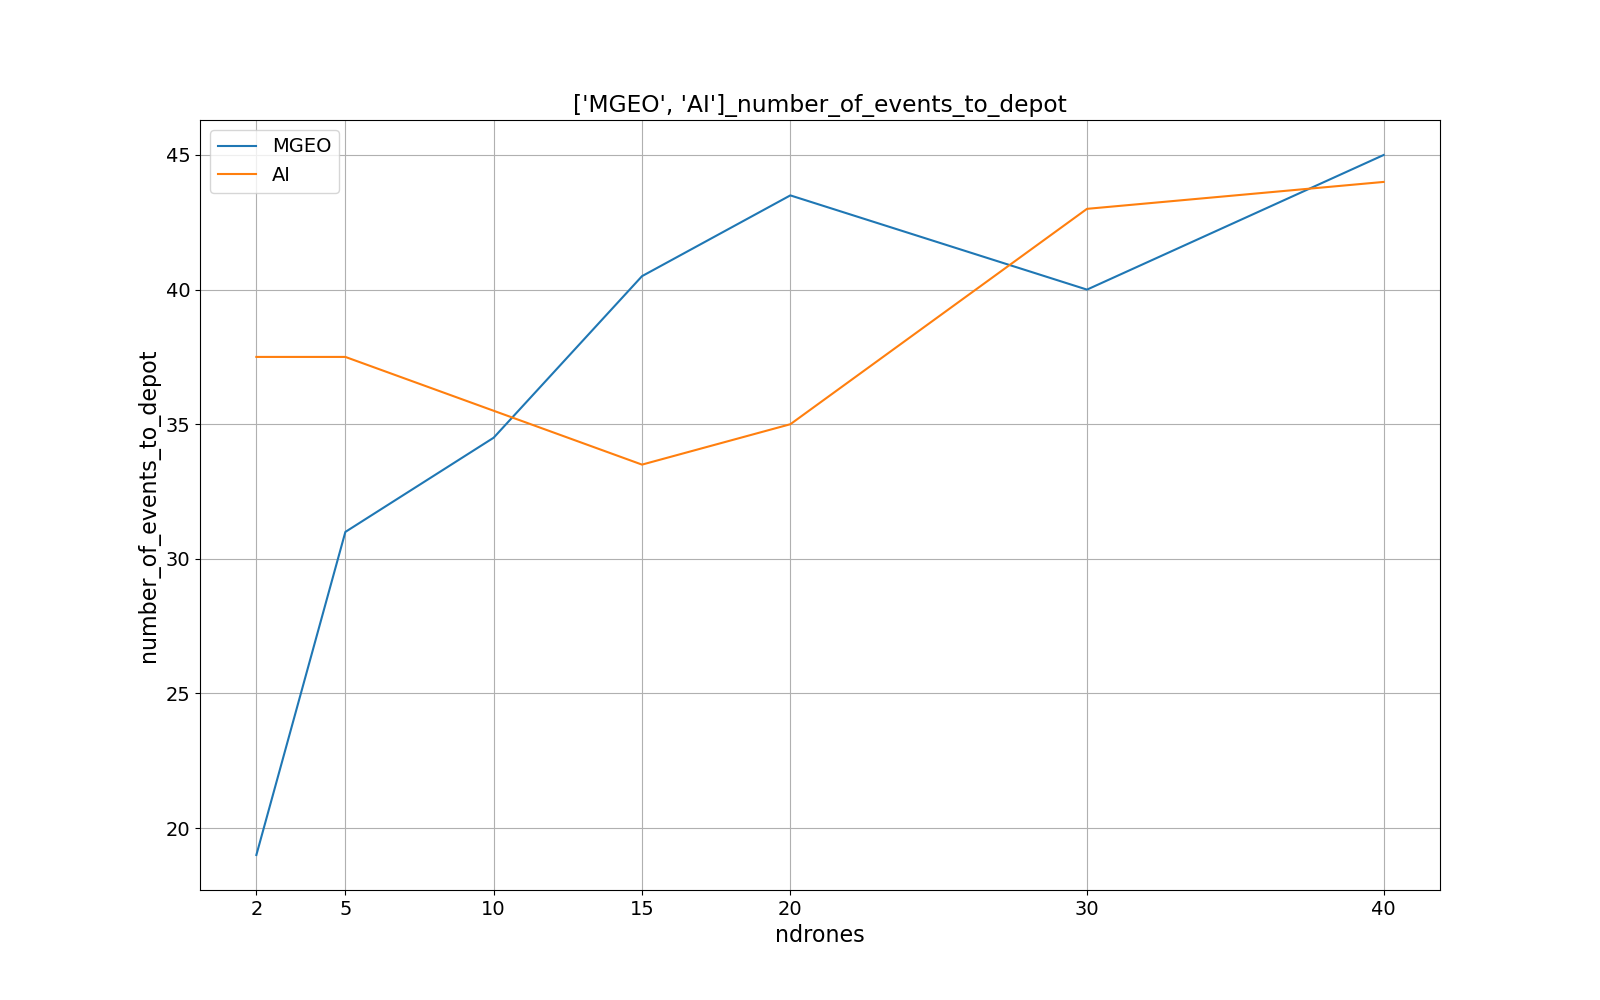
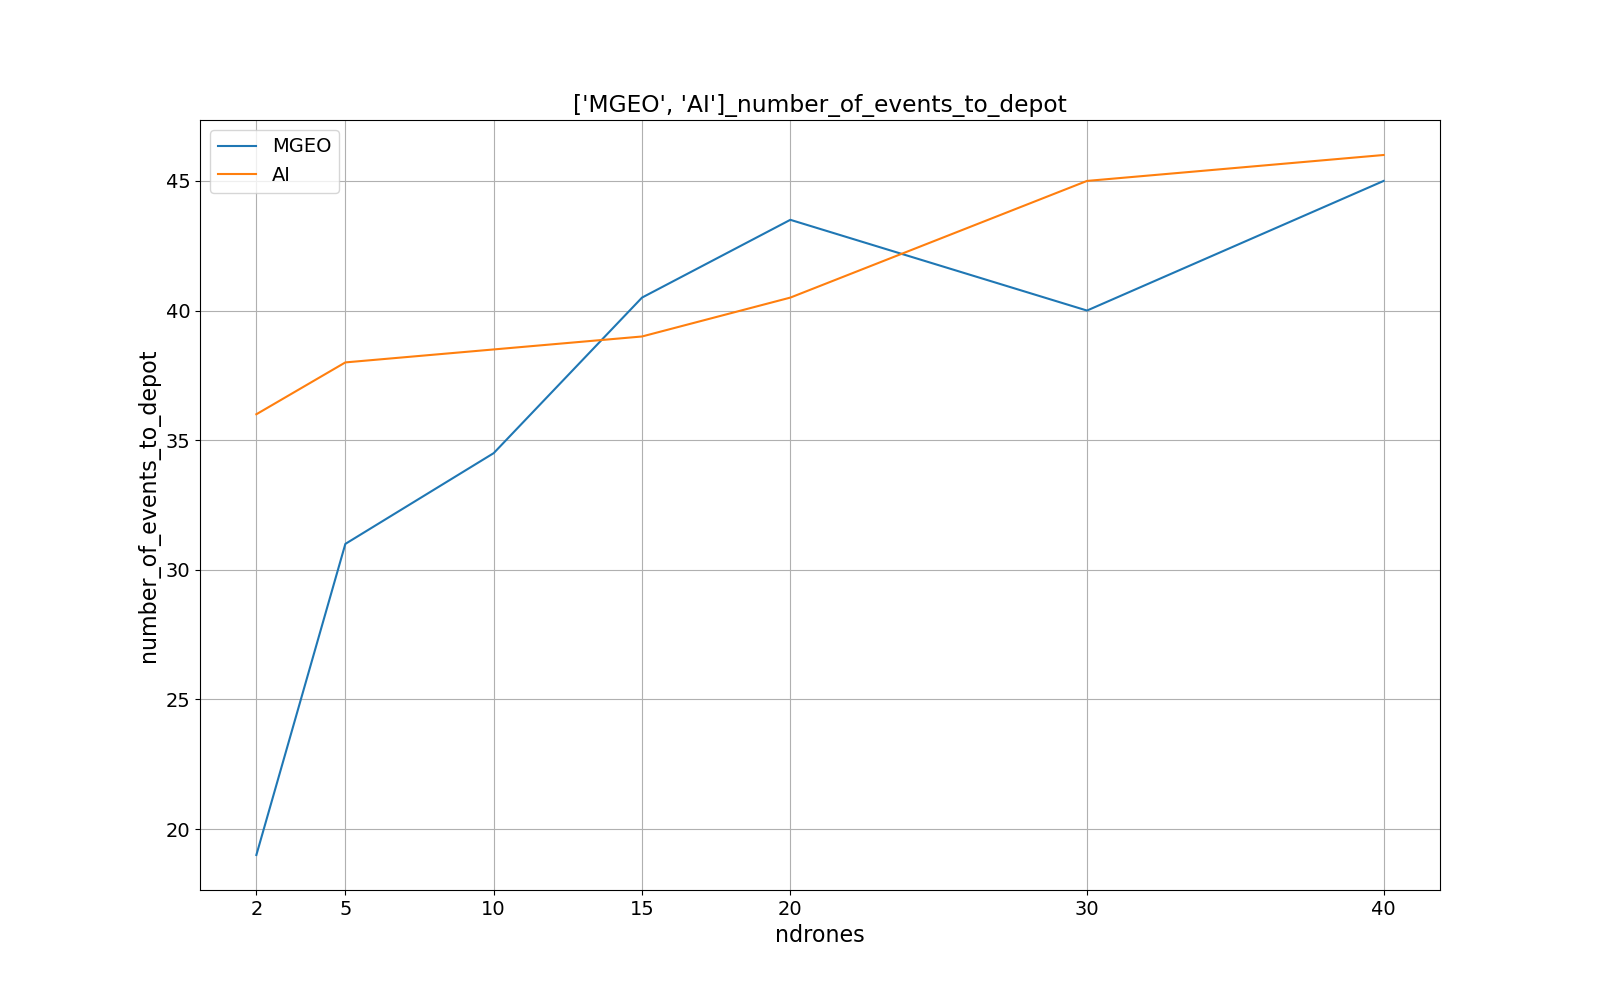
Migliorato Full Q-Learning, moltiplicare per il numero di droni il reward del send e del moveToDepot

diff --git a/HW_2/Commit_1/Full_Qlearning/ai_routing.py b/HW_2/Commit_1/Full_Qlearning/ai_routing.py
@@ -97,6 +97,7 @@ class AIRouting(BASE_routing):
             if action == 2:
                 reward = (time_to_depot)/10 * mul_reward 
             else:
+                # reward = ((self.simulator.event_duration - delay) / 1000) * mul_reward
                 reward = mul_reward
             # print("REWARD", id_event, " action:", action, " reward:", reward, " cella:", old_cell, "next_target:", next_target_cell)
 
@@ -246,6 +247,7 @@ class AIRouting(BASE_routing):
                     mul_reward = 4
                 else:
                     mul_reward = 5
+            mul_reward = mul_reward * self.simulator.n_drones
 
         # keep the packet
         # Più vicino == Reward più alto perchè ho più probabilità di passare vicino al depot
@@ -300,7 +302,7 @@ class AIRouting(BASE_routing):
                     mul_reward = -4
                 else:
                     mul_reward = -5
-        mul_reward = mul_reward * self.simulator.n_drones
+            mul_reward = mul_reward * self.simulator.n_drones
         return mul_reward
 
     def drone_to_depot_routing(self, opt_neighbors, pkd):
